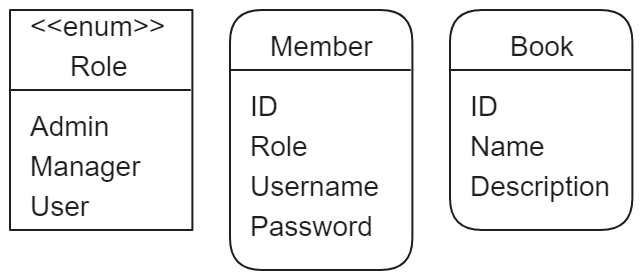
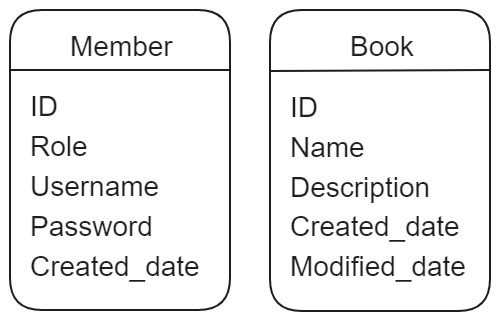
Entities and Database connection

Changed region(s): [[0.0, 0.0, 0.99, 1.0], [0.78, 0.7429, 0.81, 0.7714]]

diff --git a/bapi/Program.cs b/bapi/Program.cs
@@ -1,3 +1,12 @@
+using Infrastructure.Persistence;
+using Microsoft.EntityFrameworkCore;
+using Microsoft.Extensions.Configuration;
+using Npgsql;
+using Core.Entities;
+using Microsoft.AspNetCore.Authentication.JwtBearer;
+using Microsoft.IdentityModel.Tokens;
+using System.Text;
+using Microsoft.OpenApi.Models;
 
 namespace bapi
 {
@@ -6,13 +15,69 @@ namespace bapi
         public static void Main(string[] args)
         {
             var builder = WebApplication.CreateBuilder(args);
+            var configuration = builder.Configuration;
 
             // Add services to the container.
+
+            // Database
+            var dataSourceBuilder = new NpgsqlDataSourceBuilder(configuration.GetConnectionString("DefaultConnection"));
+            //dataSourceBuilder.MapEnum<Role>();
+            var dataSource = dataSourceBuilder.Build();
+
+            builder.Services.AddDbContext<ApplicationDbContext>(options =>
+        options.UseNpgsql(dataSource));
+
+            // JWT
+            var jwtIssuer = builder.Configuration.GetSection("Jwt:Issuer").Get<string>();
+            var jwtKey = builder.Configuration.GetSection("Jwt:Key").Get<string>();
+
+            builder.Services.AddAuthentication(JwtBearerDefaults.AuthenticationScheme)
+             .AddJwtBearer(options =>
+             {
+                 options.TokenValidationParameters = new TokenValidationParameters
+                 {
+                     ValidateIssuer = true,
+                     ValidateAudience = true,
+                     ValidateLifetime = true,
+                     ValidateIssuerSigningKey = true,
+                     ValidIssuer = jwtIssuer,
+                     ValidAudience = jwtIssuer,
+                     IssuerSigningKey = new SymmetricSecurityKey(Encoding.UTF8.GetBytes(jwtKey))
+                 };
+             });
+            builder.Services.AddAuthorization();
 
             builder.Services.AddControllers();
             // Learn more about configuring Swagger/OpenAPI at https://aka.ms/aspnetcore/swashbuckle
             builder.Services.AddEndpointsApiExplorer();
-            builder.Services.AddSwaggerGen();
+            builder.Services.AddSwaggerGen(opt =>
+            {
+                opt.SwaggerDoc("v1", new OpenApiInfo { Title = "Bapi", Version = "v1" });
+                opt.AddSecurityDefinition("Bearer", new OpenApiSecurityScheme
+                {
+                    In = ParameterLocation.Header,
+                    Description = "Please enter token",
+                    Name = "Authorization",
+                    Type = SecuritySchemeType.Http,
+                    BearerFormat = "JWT",
+                    Scheme = "bearer"
+                });
+
+                opt.AddSecurityRequirement(new OpenApiSecurityRequirement
+                {
+                    {
+                        new OpenApiSecurityScheme
+                        {
+                            Reference = new OpenApiReference
+                            {
+                                Type=ReferenceType.SecurityScheme,
+                                Id="Bearer"
+                            }
+                        },
+                        new string[]{}
+                    }
+                });
+            });
 
             var app = builder.Build();
 
@@ -24,9 +89,9 @@ namespace bapi
             }
 
             app.UseHttpsRedirection();
-
+            
+            app.UseAuthentication();
             app.UseAuthorization();
-
 
             app.MapControllers();
 

diff --git a/core/Entities/User.cs b/core/Entities/User.cs
@@ -1,0 +1,40 @@
+using System;
+using System.Collections.Generic;
+using System.ComponentModel.DataAnnotations;
+using System.ComponentModel.DataAnnotations.Schema;
+using System.Linq;
+using System.Text;
+using System.Threading.Tasks;
+
+namespace Core.Entities
+{
+    [Table("member")]
+    public class User : BaseEntity
+    {
+        [Key]
+        [Column("id")]
+        public int Id
+        {
+            get;
+            set;
+        }
+        [Column("username")]
+        public string Username
+        {
+            get;
+            set;
+        }
+        [Column("password")]
+        public string Password
+        {
+            get;
+            set;
+        }
+        [Column("user_role")]
+        public Role Role
+        {
+            get;
+            set;
+        }
+    }
+}

diff --git a/core/Entities/Book.cs b/core/Entities/Book.cs
@@ -1,0 +1,34 @@
+using System;
+using System.Collections.Generic;
+using System.ComponentModel.DataAnnotations;
+using System.Linq;
+using System.Text;
+using System.Threading.Tasks;
+
+namespace Core.Entities
+{
+    public class Book : BaseEntity
+    {
+        [Key]
+        public int Id
+        {
+            get;
+            set;
+        }
+        public string Name
+        {
+            get;
+            set;
+        }
+        public string Description
+        {
+            get;
+            set;
+        }
+        public DateTime ModifiedDate
+        {
+            get;
+            set;
+        }
+    }
+}

diff --git a/core/Entities/BaseEntity.cs b/core/Entities/BaseEntity.cs
@@ -1,0 +1,26 @@
+using System;
+using System.Collections.Generic;
+using System.Linq;
+using System.Text;
+using System.Threading.Tasks;
+using System.ComponentModel.DataAnnotations;
+using System.ComponentModel.DataAnnotations.Schema;
+
+namespace Core.Entities
+{
+    public class BaseEntity
+    {
+        [Column("id")]
+        public int Id
+        {
+            get;
+            set;
+        }
+        [Column("created_date")]
+        public DateTime CreatedDate
+        {
+            get;
+            set;
+        }
+    }
+}

diff --git a/Infrastructure/Persistence/ApplicationDbContext.cs b/Infrastructure/Persistence/ApplicationDbContext.cs
@@ -1,0 +1,21 @@
+using System;
+using System.Collections.Generic;
+using System.Linq;
+using System.Text;
+using System.Threading.Tasks;
+using Core.Entities;
+using Microsoft.EntityFrameworkCore;
+
+namespace Infrastructure.Persistence
+{
+    public class ApplicationDbContext : DbContext
+    {
+        public ApplicationDbContext(DbContextOptions<ApplicationDbContext> options) : base(options)
+        {
+        }
+
+        public DbSet<User> Users { get; set; }
+
+        public DbSet<Book> Books { get; set; }
+    }
+}

diff --git a/core/Entities/Role.cs b/core/Entities/Role.cs
@@ -1,0 +1,15 @@
+using System;
+using System.Collections.Generic;
+using System.Linq;
+using System.Text;
+using System.Threading.Tasks;
+
+namespace Core.Entities
+{
+    public enum Role : int
+    {
+        Admin = 0,
+        Manager  = 1,
+        User = 2         
+    }
+}

diff --git a/core/Class1.cs b/core/Class1.cs
@@ -1,0 +1,7 @@
+namespace Core
+{
+    public class Class1
+    {
+
+    }
+}

diff --git a/README.md b/README.md
@@ -91,7 +91,7 @@ Visual Studio /// Docker Container Deploy
 
 ### Architecture
 
-I chose a simplified version of the onion architecture for this .NET project because it promotes loose coupling and separation of concerns. The core domain layer remains independent of external frameworks and databases (infrastructure layer). This brings several benefits:
+I chose a simplified version of the clean architecture for this .NET project because it promotes loose coupling and separation of concerns. The core domain layer remains independent of external frameworks and databases (infrastructure layer). This brings several benefits:
 
 - Testability: The core business logic (domain layer) is easily unit tested in isolation.
 - Maintainability: Changes to UI or data access won't affect the core logic, simplifying maintenance.
@@ -110,19 +110,22 @@ The database chosen was PostgreSQL hosted on [Neon](https://neon.tech/) for its 
 <br>
 
 ```sql
-CREATE TYPE role AS ENUM ('Admin', 'Manager', 'User');
+--CREATE TYPE role AS ENUM ('Admin', 'Manager', 'User');
 
 CREATE TABLE member (
   id SERIAL PRIMARY KEY,
-  user_role role NOT NULL,
+  user_role int NOT NULL,
   username VARCHAR (20) UNIQUE NOT NULL, 
-  password CHAR (32) NOT NULL
+  password CHAR (32) NOT NULL,
+  created_date TIMESTAMP  NOT NUll
 );
 
 CREATE TABLE book (
   id SERIAL PRIMARY KEY,
   name VARCHAR (120) UNIQUE NOT NULL, 
-  description Text NOT NULL
+  description Text NOT NULL,
+  created_date TIMESTAMP  NOT NUll,
+  modifieddate TIMESTAMP  NOT NUll
 );
 
 ```
@@ -131,14 +134,18 @@ CREATE TABLE book (
 
 ```sql
 -- Password is md5('Aa1234')
-INSERT INTO user(user_role, username, password )
-VALUES('Admin','admin','e267cfcd18461ce938067eca67c59f41');
+INSERT INTO member(user_role, username, password, created_date )
+VALUES(0,'admin','E267CFCD18461CE938067ECA67C59F41', NOW());
 ```
 
 ### Packages Used
 ```sh
 # Swagger
 dotnet add package Swashbuckle.AspNetCore 
+
+#Json Tokens
+dotnet add package Microsoft.IdentityModel.JsonWebTokens 
+dotnet add package Microsoft.AspNetCore.Authentication.JwtBearer
 
 #Entity Framework + Postgre Addon
 dotnet add package Microsoft.EntityFrameworkCore
